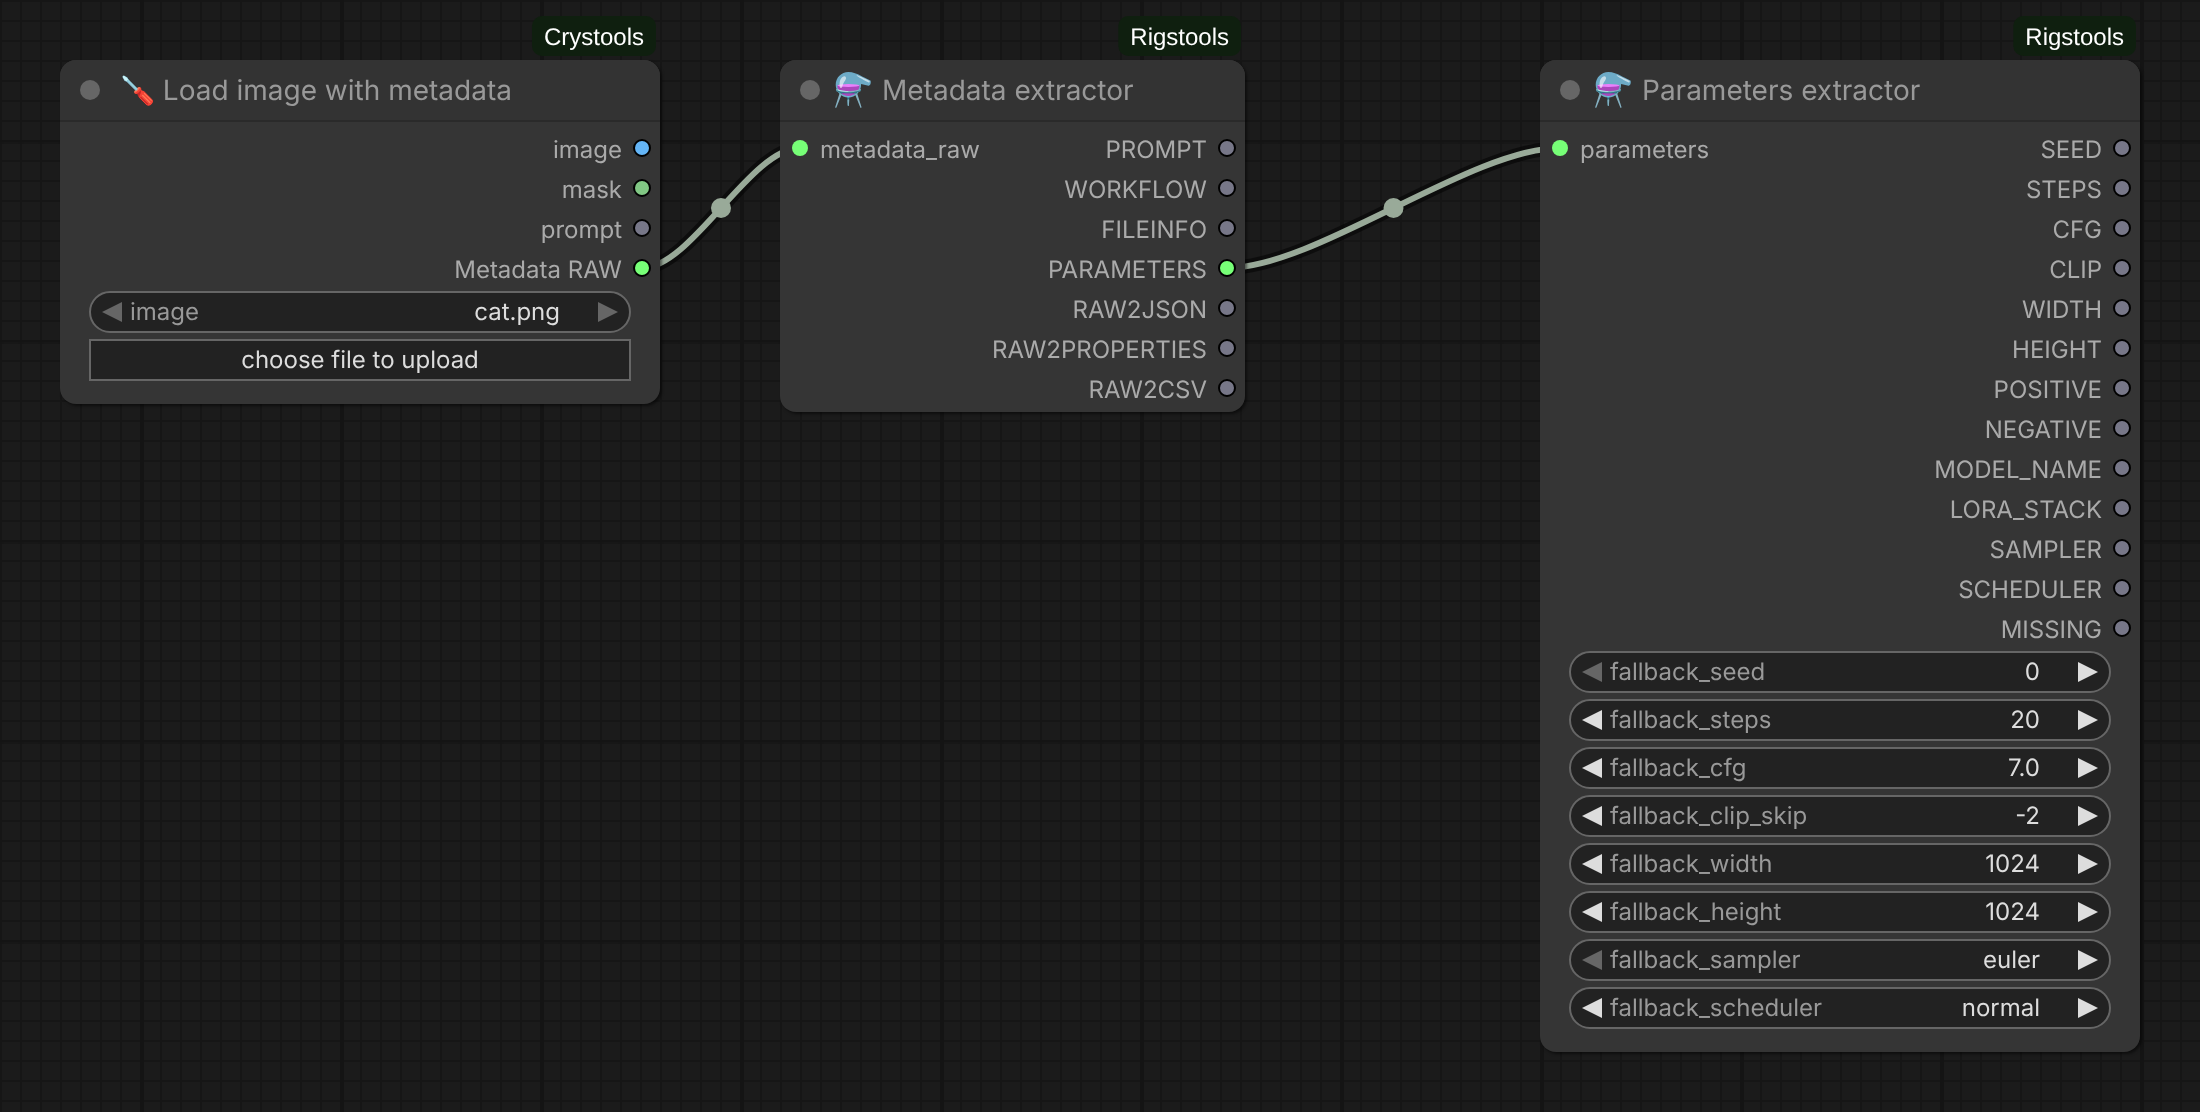
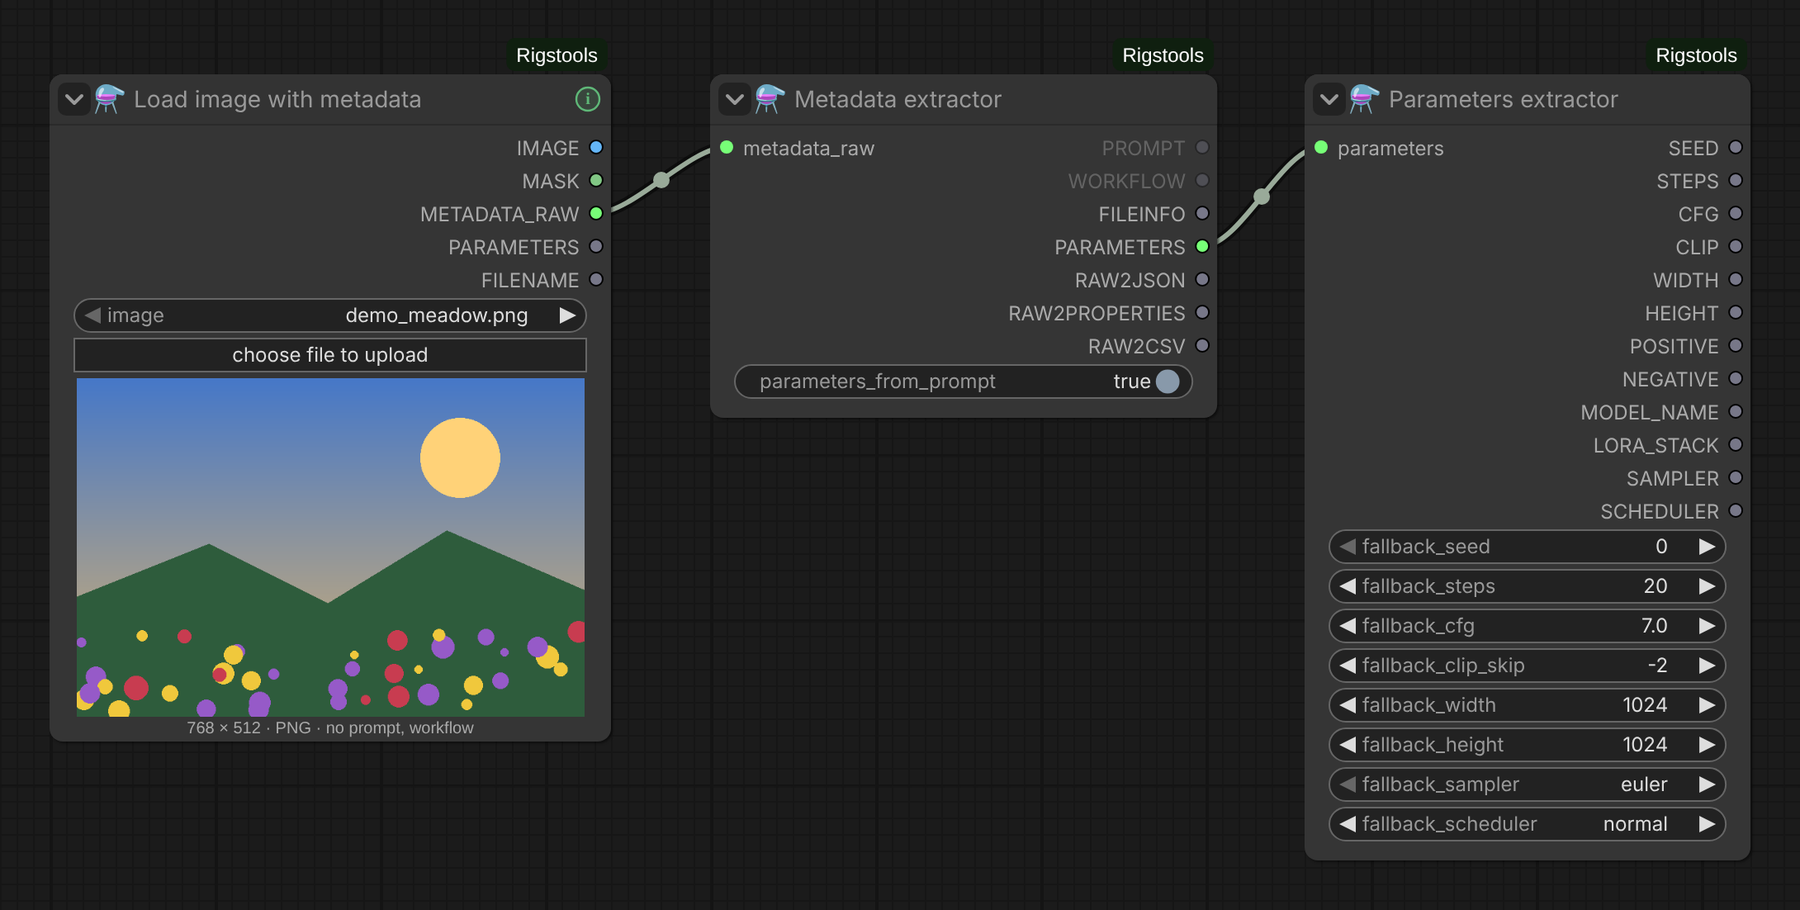
README: new screenshots of the loader and Save image

Changed region(s): [[0.0, 0.0308, 0.9956, 0.9538]]

diff --git a/README.md b/README.md
@@ -54,6 +54,12 @@ and each is also an output. It replaces the *Load image with metadata → Metada
 chain with one node; the separate nodes stay, so existing workflows keep working and the nodes can be combined freely
 (`METADATA_RAW` → Metadata extractor, `PARAMETERS` → Parameters extractor, `LORA_STACK` → LoRA hashes for Image Saver).
 
+![Load image with parameters](docs/loader.png)
+
+*The picture has no seed, clip skip or model: their fields have an empty circle, and the connected `SEED`, `CLIP` and
+`MODEL_NAME` outputs show ✕ — a substitute comes out of them. `steps` was typed by hand: amber, ↺ returns the value of
+the file.*
+
 - Fields, in a card titled *Parameters from the file*: positive and negative prompt, `seed · steps · cfg · clip`,
   `sampler · scheduler`, `model · width · height`, LoRA. The dot before a label says where the value comes from:
   green — from the file, amber — changed by hand, an empty circle — not in the file; the legend is under the fields.
@@ -158,6 +164,11 @@ picture through the graph and finds the sampler, prompts, seed, steps, CFG, samp
 the loader nodes (LoraLoader, Power Lora Loader, LoRA Manager), clip skip and the upscale / detailer passes. Values our
 loaders read from a file (Parameters extractor, Load image with parameters) are taken from that file.
 
+![Save image](docs/saver.png)
+
+*txt2img: every value is found in the graph — the LoRA from the two loaders, clip skip from CLIP Set Last Layer, the
+size from the empty latent.*
+
 The panel on the node shows what **the next run will write**, in the same fields as Load image with parameters:
 every value with a dot — grey from the graph, blue from a connected input, green from the source file, an empty circle
 not found — and the name of the next file. In that name, values that are determined only at run time — the time, the
@@ -207,6 +218,11 @@ the others are the fallback:
 A connected input counts even when its value is known only at run time. The size is never taken from the source file
 (an upscaled picture has another size). The choice is saved with the workflow; workflows saved before it get *Input*,
 the old behaviour.
+
+![Save image with connected inputs](docs/saver_wired.png)
+
+*img2img: `positive`, `negative`, `seed` and `lora_stack` are wired from the loader (blue dots), steps, CFG, sampler
+and denoise come from the KSampler of this pass. The red LoRA is not in `models/loras`, so ⓘ in the title is amber.*
 
 #### LoRA
 - **Input:** a connected `lora_stack` replaces the whole list. It takes a text of `<lora:name:weight>` tags separated by
